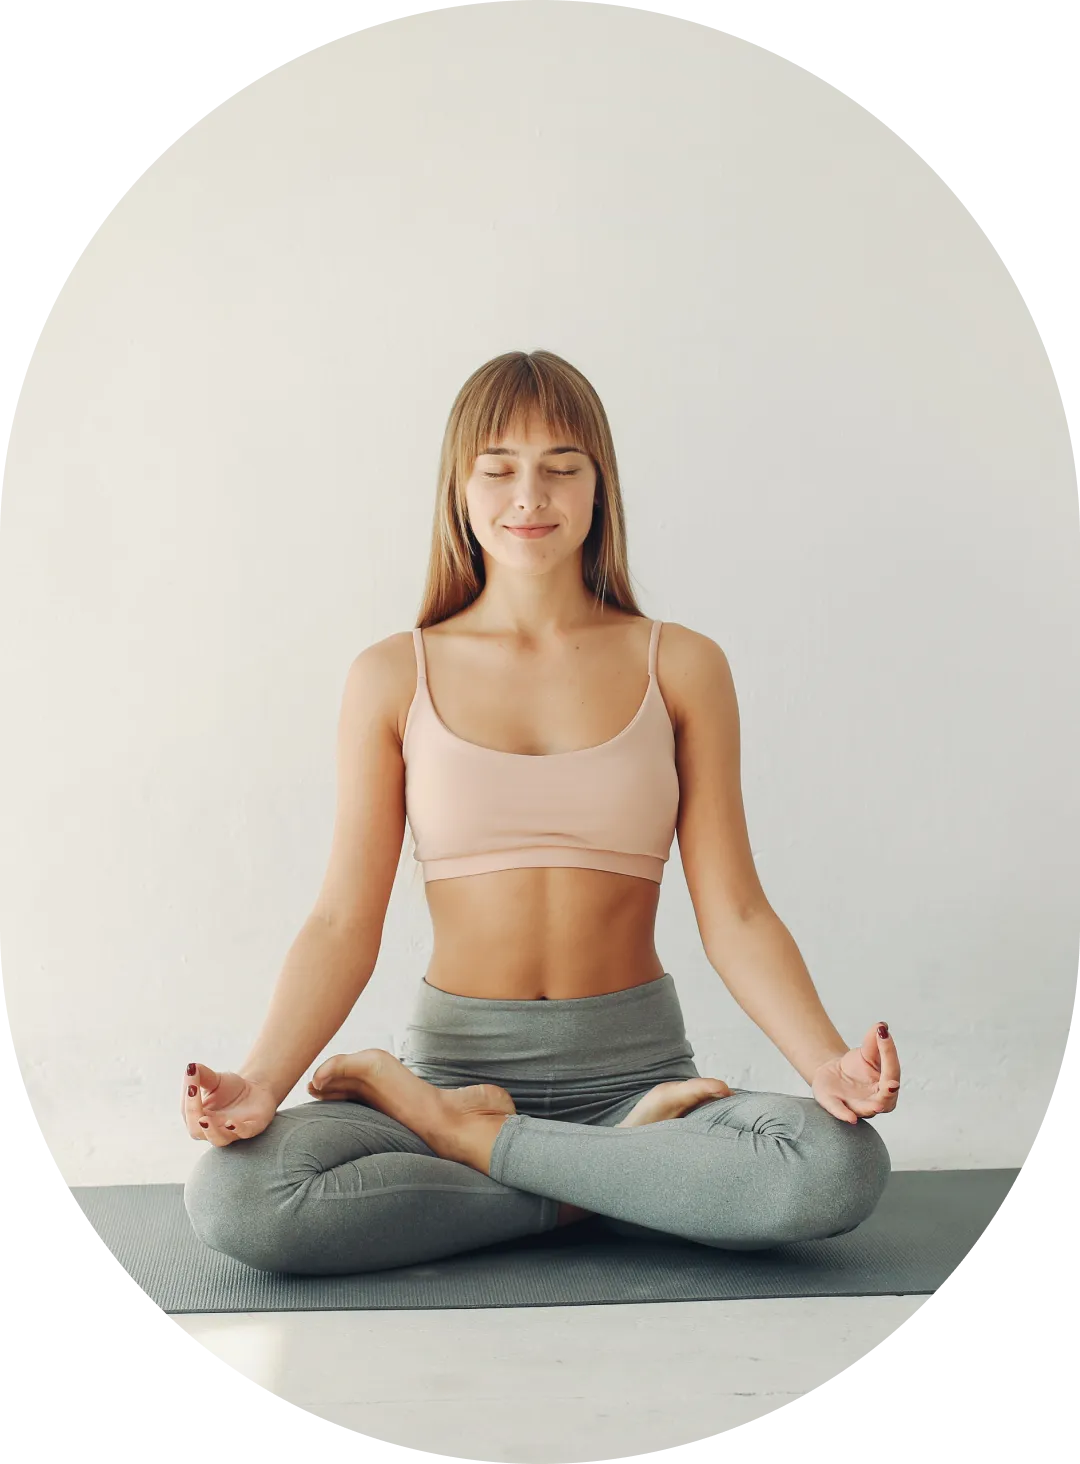
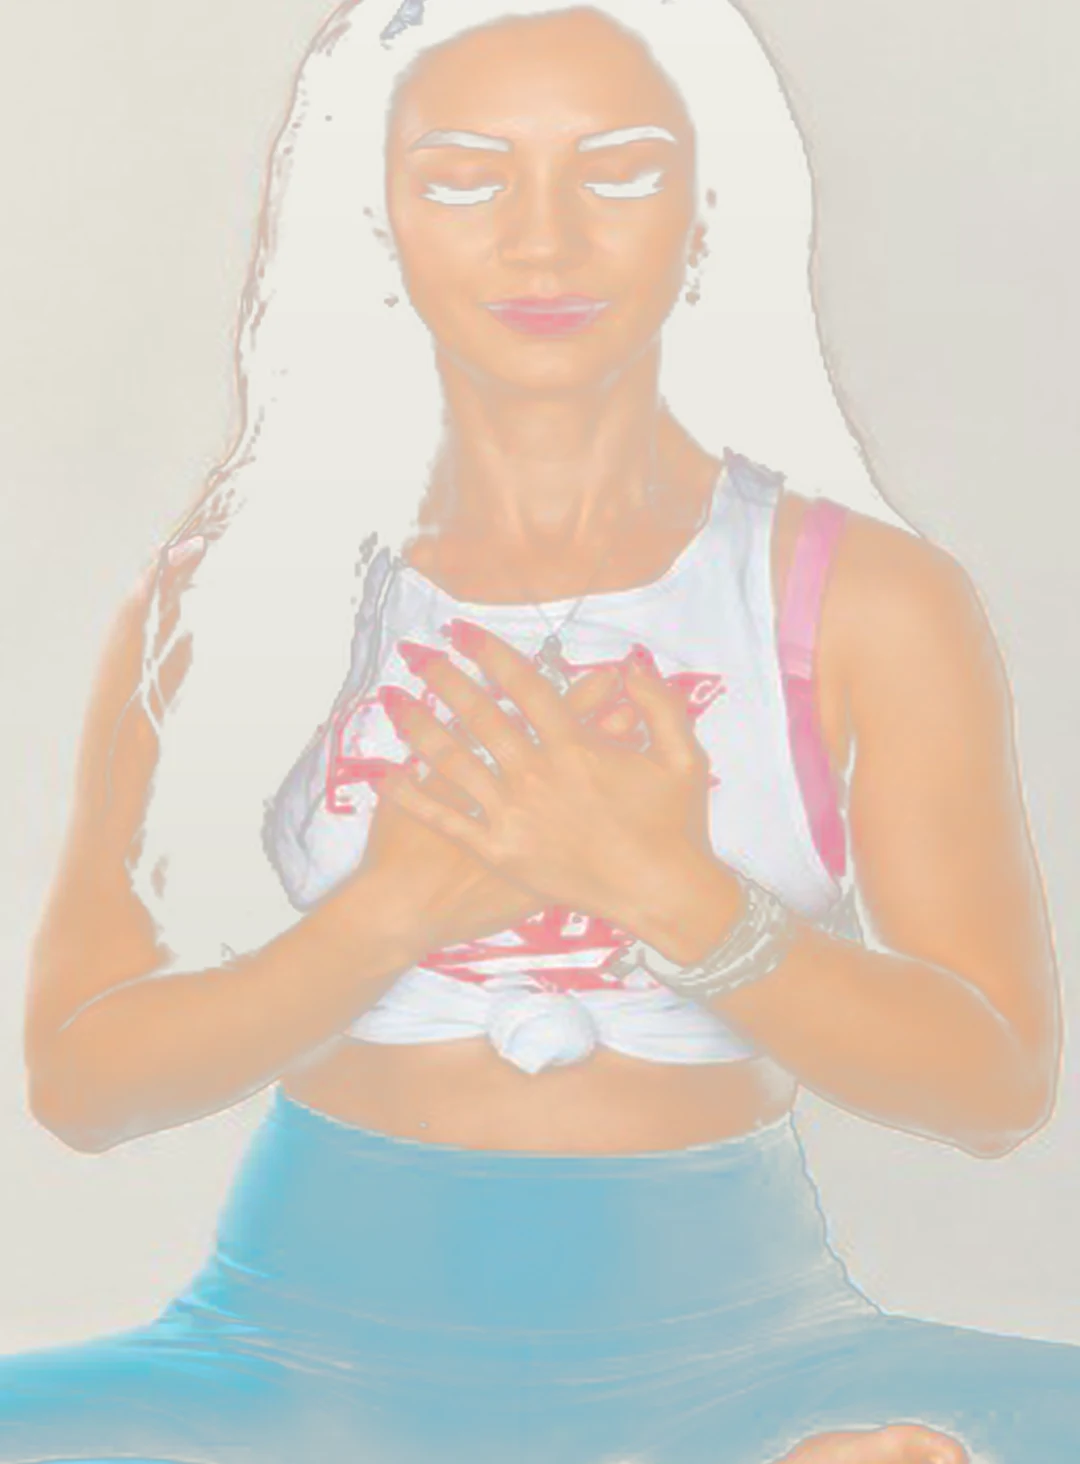
Replace Contact image with Marina studio photo and fix oval edge artifacts.

diff --git a/src/components/sections/Contact.tsx b/src/components/sections/Contact.tsx
@@ -178,14 +178,14 @@ export function Contact() {
         <div className="flex w-full max-w-[540px] justify-center lg:shrink-0">
           <div
             ref={imageWrapRef}
-            className="relative aspect-[1/1.36] w-full max-w-[400px] overflow-hidden rounded-[500px] lg:max-w-[540px]"
+            className="relative aspect-[1/1.36] w-full max-w-[400px] overflow-hidden rounded-[500px] bg-[#E8E7E0] lg:max-w-[540px]"
           >
             <Image
               src="/assets/contact/contact.webp"
-              alt="Yoga instructor in studio"
+              alt="Marina meditating on a cushion in studio"
               fill
               sizes="(max-width: 1023px) 87vw, 540px"
-              className="object-cover object-center"
+              className="object-cover object-center scale-[1.12]"
             />
           </div>
         </div>
